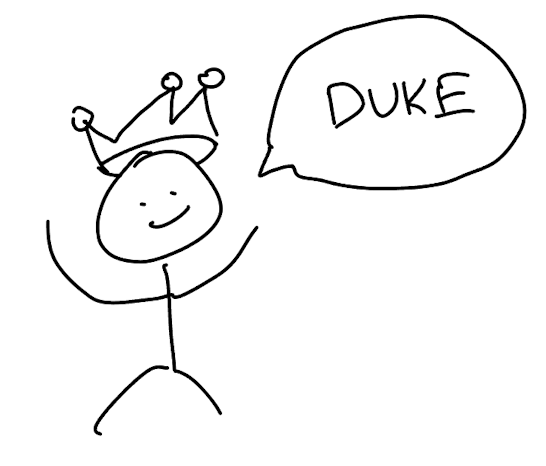
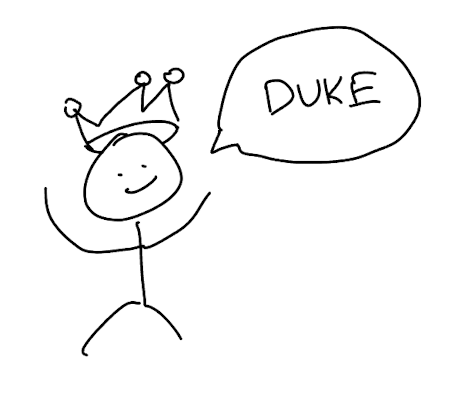
Change wording for Mass-Ops

diff --git a/src/main/java/duke/Duke.java b/src/main/java/duke/Duke.java
@@ -166,13 +166,13 @@ public class Duke {
     }
 
     private String generateAddTaskMessage(Task task) {
-        String message = "Got it. I've added this task:\n " + task.toString();
+        String message = "Got it. I've added this task:\n" + task.toString();
         message += "\nNow you have " + tasks.numTasks() + " tasks in the list.";
         return message;
     }
 
     private String generateDeleteTaskMessage(ArrayList<Task> selectedTasks) {
-        String message = "Noted. I've removed these tasks:\n ";
+        String message = "Noted. I've removed these tasks:\n";
         for (int i = 0; i < selectedTasks.size(); i++) {
             Task oneTask = selectedTasks.get(i);
             message += oneTask.toString() + "\n";
@@ -182,8 +182,8 @@ public class Duke {
     }
 
     private String generateMarkMessage(ArrayList<Task> selectedTasks, boolean isMark) {
-        String unmarkMsg = "OK! I've marked these tasks as not done yet:\n ";
-        String markMsg = "Nice! I've marked this task as done:\n ";
+        String unmarkMsg = "OK! I've marked these tasks as not done yet:\n";
+        String markMsg = "Nice! I've marked these tasks as done:\n";
         String message = isMark ? markMsg : unmarkMsg;
         for (int i = 0; i < selectedTasks.size(); i++) {
             Task oneTask = selectedTasks.get(i);

diff --git a/src/main/java/duke/controller/MainWindow.java b/src/main/java/duke/controller/MainWindow.java
@@ -25,8 +25,8 @@ public class MainWindow extends AnchorPane {
 
     private Duke duke;
 
-    private Image userImage = new Image(this.getClass().getResourceAsStream("/images/User.jpg"));
-    private Image dukeImage = new Image(this.getClass().getResourceAsStream("/images/Duke.jpg"));
+    private Image userImage = new Image(this.getClass().getResourceAsStream("/images/User.png"));
+    private Image dukeImage = new Image(this.getClass().getResourceAsStream("/images/Duke.png"));
 
     @FXML
     public void initialize() {
